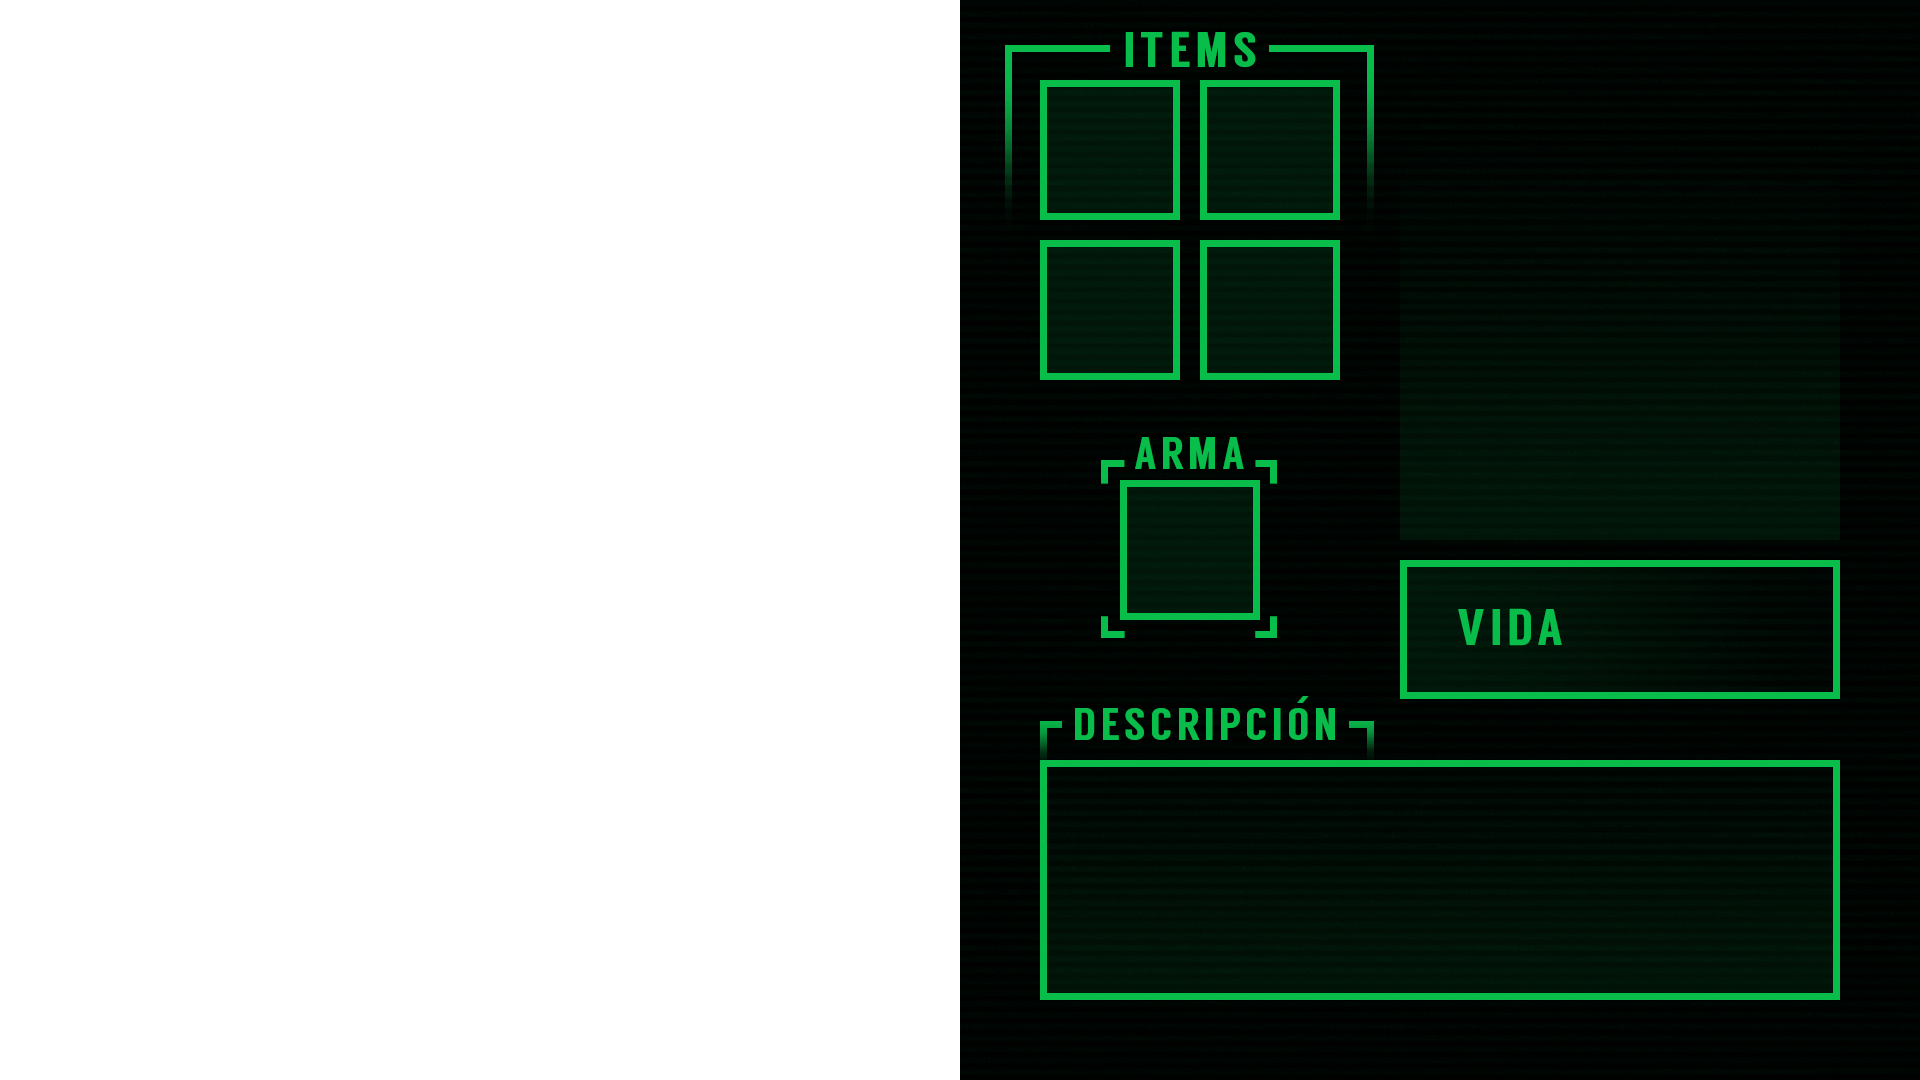
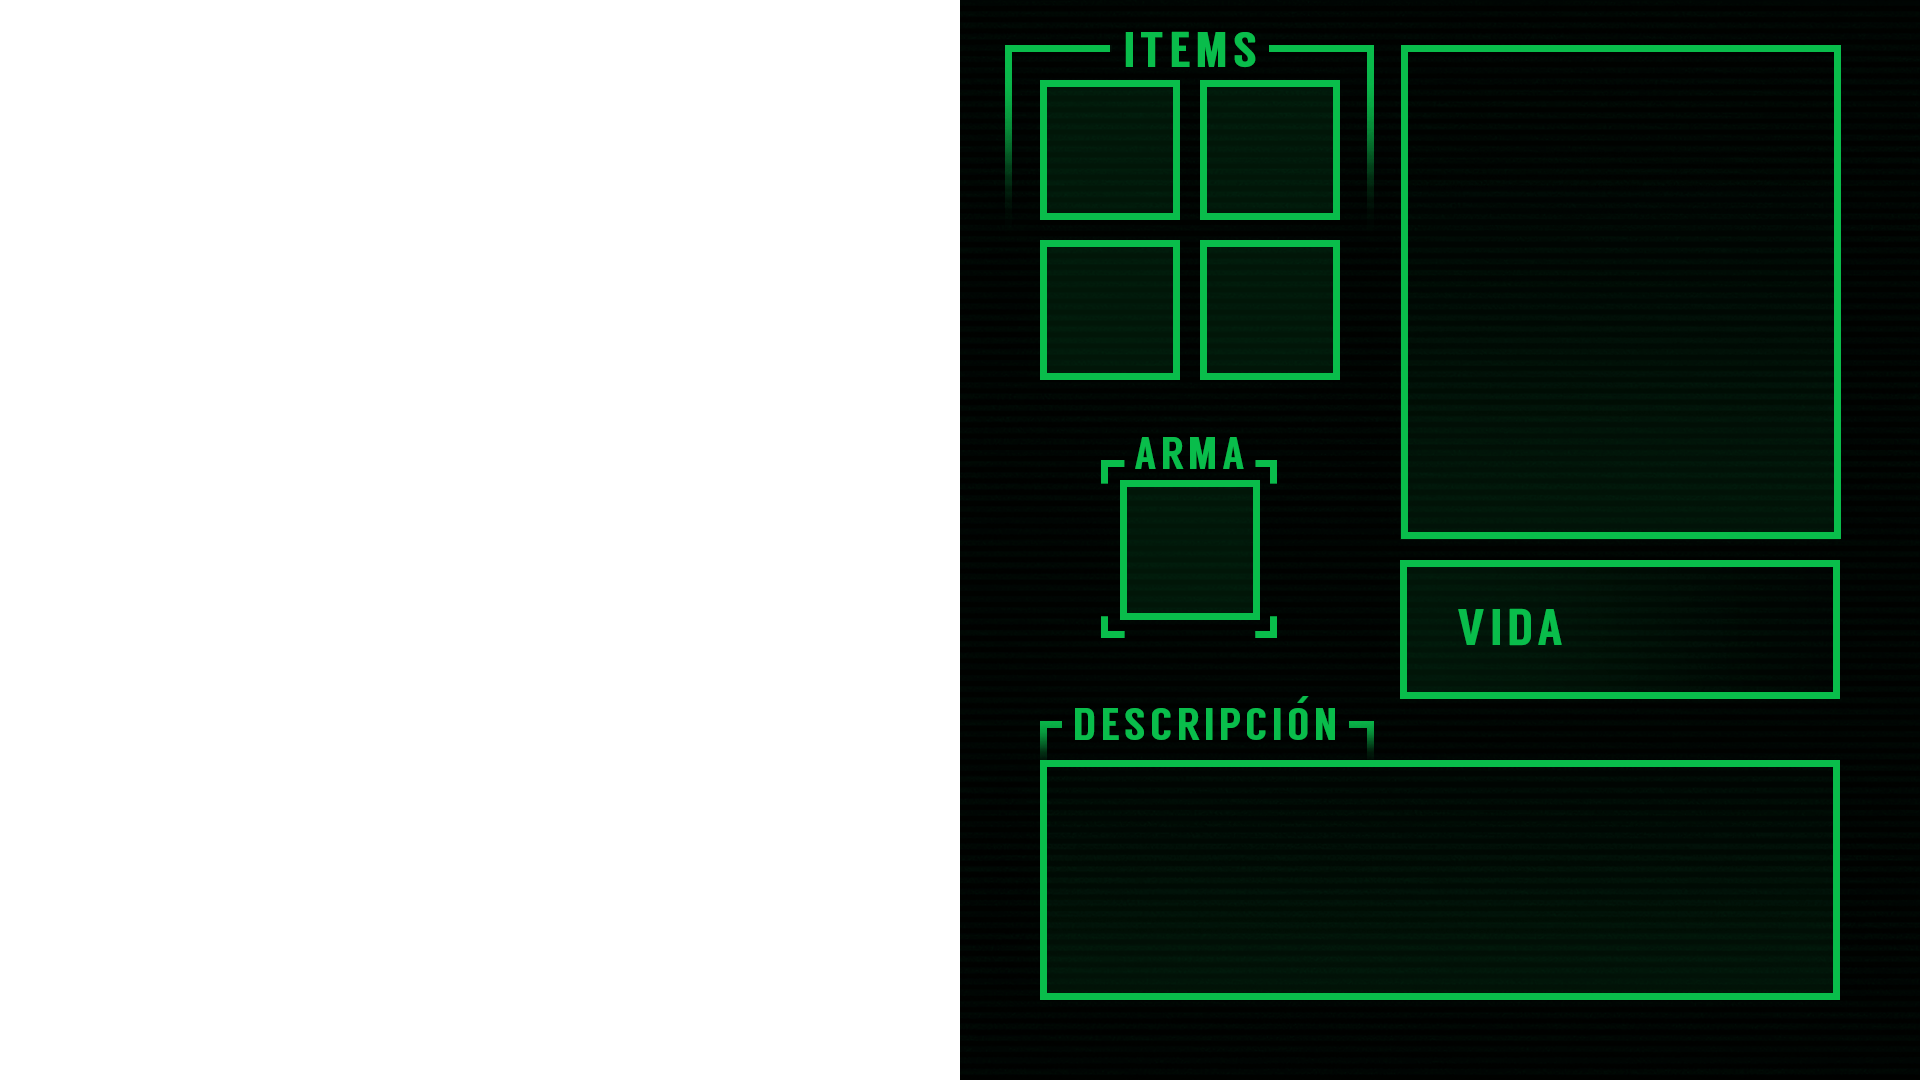
Elise inventario

Changed region(s): [[0.7188, 0.0306, 0.9688, 0.5194]]

diff --git a/ProyectosSDL/HolaSDL/Inventory.cpp b/ProyectosSDL/HolaSDL/Inventory.cpp
@@ -237,8 +237,21 @@ void Inventory::render(Entity* e, Uint32 time)
 		int posX = width / 2 - ancho / 2;
 		int posY = height / 2 - alto / 2;
 
-		SDL_Rect dest = { posX,posY, ancho,alto };
+		SDL_Rect dest = { posX, posY, ancho,alto };
 		resource->getTexture("Inventory")->render(pRenderer, dest);
+
+
+		SDL_Rect destE = { posX * 14, posY, ancho/4, alto /2};
+		
+		if (PlayState::Instance()->getPlayer()->getComponent<Player>()->getLife() <= ritmoCardiaco3) 
+			resource->getTexture("EliseInventory_NotOk")->render(pRenderer, destE);
+		else if (PlayState::Instance()->getPlayer()->getComponent<Player>()->getLife() <= ritmoCardiaco2) 
+			resource->getTexture("EliseInventory_Ok")->render(pRenderer, destE);
+		else if (PlayState::Instance()->getPlayer()->getComponent<Player>()->getLife() <= ritmoCardiaco1) 
+			resource->getTexture("EliseInventory")->render(pRenderer, destE);
+
+
+
 	}
 	//RENDERIZAMOS EL ARMA EQUIPADA
 	if (equiped != nullptr) {

diff --git a/ProyectosSDL/HolaSDL/Game.cpp b/ProyectosSDL/HolaSDL/Game.cpp
@@ -275,9 +275,16 @@ void Game::addResourcesTexture()
 	resourceManager_->addTexture("PuertaDerechaEstrecha", "images/AnimPuertas/PuertaDerechaEstrecha.png");
 	resourceManager_->addTexture("PuertaIzquierdaEstrecha", "images/AnimPuertas/PuertaIzquierdaEstrecha.png");
 	resourceManager_->addTexture("PuertaEmergencia", "images/AnimPuertas/PuertaEmergencia.png");
+	
 	//CarnePuaj
 	resourceManager_->addTexture("CarnePuaj", "images/CarnePuaj/carnePuaj.png");
 	resourceManager_->addTexture("CarnePuajDestroyed", "images/CarnePuaj/carnePuajDestruyendose.png");
+
+	//Elise Inventario
+	resourceManager_->addTexture("EliseInventory", "images/Inventario/Elise/1.png");
+	resourceManager_->addTexture("EliseInventory_Ok", "images/Inventario/Elise/2.png");
+	resourceManager_->addTexture("EliseInventory_NotOk", "images/Inventario/Elise/3.png");
+
 }
 
 void Game::addResourcesMusic()
